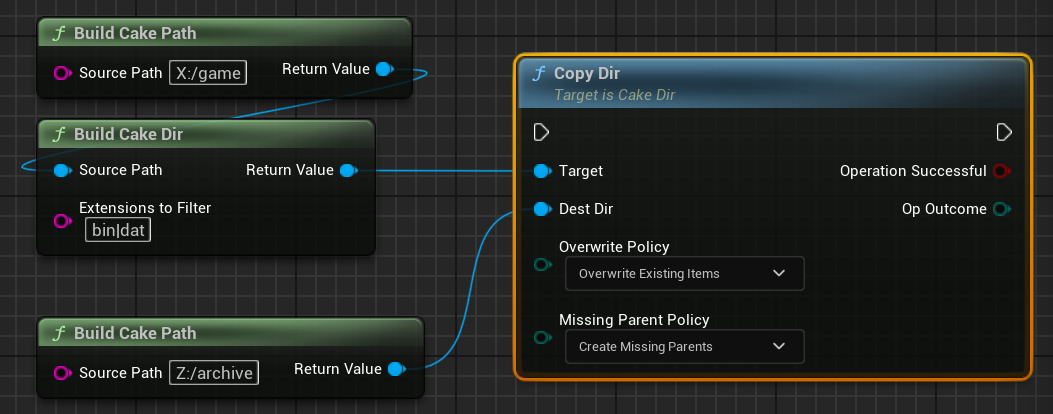
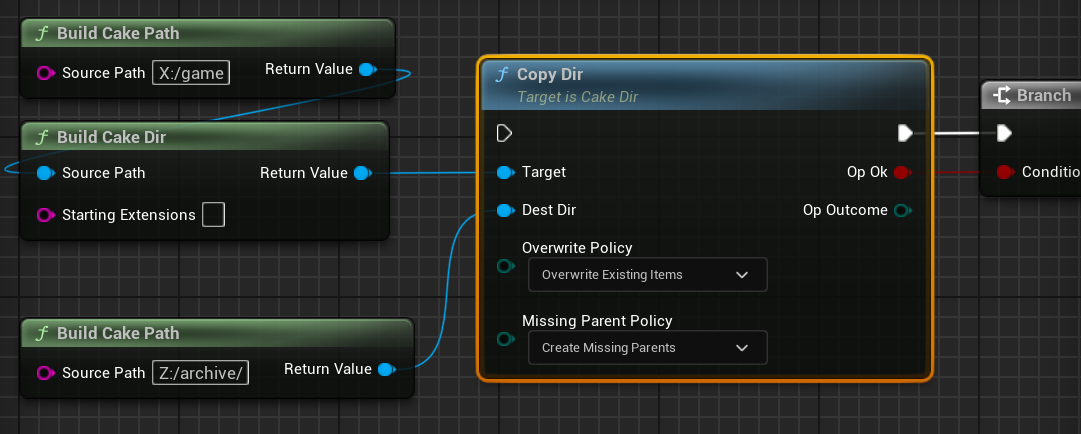
Update Directory.

diff --git a/docs/core-api/directories.md b/docs/core-api/directories.md
@@ -333,12 +333,12 @@ To copy the directory a CakeDir represents to another location on the filesystem
     }
     ```
 
-	--8<-- "ad-settings-createitem.md"
+	--8<-- "ad-settings-copyitem.md"
 
 === "Blueprint"
 	{{ bp_img_dir('Copy Dir') }}
 
-We can give the copied directory a new name easily via `CopyDirAliased`. In addition to a destination path, we also need to provide a new name that the copied directory should have: 
+We can give the copied directory a new name easily via `CopyDirWithNewName`. In addition to a destination path, we also need to provide a new name that the copied directory should have: 
 
 === "C++"
 
@@ -347,15 +347,15 @@ We can give the copied directory a new name easily via `CopyDirAliased`. In addi
 
 	FCakePath PathDestDir{ TEXT("Z:/archive/") };
 
-	if (!DirectoryGame.CopyDirAliased(PathDestDir, TEXTVIEW("game_archive")))
+	if (!DirectoryGame.CopyDirWithNewName(PathDestDir, TEXTVIEW("game_archive")))
 	{
 		UE_LOG(LogTemp, Error, TEXT("Failed copying game directory to archives!"))
 	}
     ```
-	--8<-- "ad-settings-createitem.md"
+	--8<-- "ad-settings-copyitem.md"
 
 === "Blueprint"
-	{{ bp_img_dir('Copy Dir Aliased') }}
+	{{ bp_img_dir('Copy Dir With New Name') }}
 
 Assuming the copy succeeds, the copied directory's path would be `Z:/archive/game_archive`.
 
@@ -376,12 +376,12 @@ To move the directory a CakeDir represents to another location on the filesystem
     }
     ```
 
-	--8<-- "ad-settings-createitem.md"
+	--8<-- "ad-settings-copyitem.md"
 
 === "Blueprint"
 	{{ bp_img_dir('Move Dir') }}
 
-We can give the moved directory a new name easily via `MoveDirAliased`. In addition to a destination path, we also need to provide a new name that the moved directory should have: 
+We can give the moved directory a new name easily via `MoveDirWithNewName`. In addition to a destination path, we also need to provide a new name that the moved directory should have: 
 
 === "C++"
 
@@ -390,15 +390,15 @@ We can give the moved directory a new name easily via `MoveDirAliased`. In addit
 
 	FCakePath PathDestDir{ TEXT("Z:/archive/") };
 
-	if (!DirectoryGame.MoveDirAliased(PathDestDir, TEXTVIEW("game_archive")))
+	if (!DirectoryGame.MoveDirWithNewName(PathDestDir, TEXTVIEW("game_archive")))
 	{
 		UE_LOG(LogTemp, Error, TEXT("Failed moving game directory to archives!"))
 	}
     ```
-	--8<-- "ad-settings-createitem.md"
+	--8<-- "ad-settings-copyitem.md"
 
 === "Blueprint"
-	{{ bp_img_dir('Move Dir Aliased') }}
+	{{ bp_img_dir('Move Dir With New Name') }}
 
 Assuming the move succeeds, the moved directory's path would be `Z:/archive/game_archive`.
 
@@ -423,7 +423,7 @@ We can control whether or not the name change is allowed to overwrite existing d
 
 ### Retrieving Directory OS Stat Information
 === "C++"
-    We can get the `FFileStatData` for an **FCakeDir** via `QueryStatData`:
+    We can get the `FFileStatData` for an FCakeDir via `QueryStatData`:
 
     ```c++ hl_lines="3"
 	FCakeDir DirectoryGame{ FCakePath{TEXTVIEW("X:/game")} };
@@ -910,19 +910,19 @@ Sometimes we might want to clone a CakeDir object and just change its parent pat
 The cloned directory will hold the path: `Y:/archive/build/win64`.
 
 ### Path Utility Functions
-#### BuildPathUnder
-This convenience function is designed to provide an ergonomic interface for generating paths relative to (under) a specific CakeDir object's path. All we need to do is submit a [CakePath](paths.md) object that represents the desired child path, and `BuildPathUnder` will return a new CakePath object with that child path parented under the target CakeDir object's path:
+#### BuildChildPath
+This convenience function is designed to provide an ergonomic interface for generating child paths relative to a specific CakeDir object's path. All we need to do is submit a [CakePath](paths.md) object that represents the child path's relative location within the directory, and `BuildChildPath` will return a new CakePath object with that child path parented under the target CakeDir object's path:
 
 === "C++"
     ```c++ hl_lines="4"
 	FCakeDir ProjectDir{ FCakePath{TEXTVIEW("X:/cake-arena")} };
 	FCakePath AssetsFolder{ TEXTVIEW("data/assets") };
 
-	FCakePath AssetsFullPath{ ProjectDir.BuildPathUnder(AssetsFolder) };
+	FCakePath AssetsFullPath{ ProjectDir.BuildChildPath(AssetsFolder) };
 	// Path: "X:/cake-arena/data/assets"
     ```
 
 === "Blueprint"
-	{{ bp_img_dir('Build Path Under') }}
+	{{ bp_img_dir('Build Child Path') }}
 
 In the example above, the returned CakePath object's path will be `X:/cake-arena/data/assets`.

diff --git a/docs/core-api/special-types/settings.md b/docs/core-api/special-types/settings.md
@@ -3,14 +3,13 @@
 
 CakeIO uses lightweight structs called Settings to group associated function parameters that are used across multiple functions. These structs help enforce regular argument ordering, reduce the length of function signatures, and provide a single location in source code where defaults can be set. Furthermore, because CakeIO takes advantage of C++20, we can use designated initializer syntax in order to allow for a much more ergonomic handling of optional parameters. 
 
-
-## FCakeSettingsCreateItem
-This parameter pack is utilized by various Create / Write IO functions across CakeIO. It contains two Cake Policies: [OverwriteItems](policies.md#overwriteitems) and [MissingParents](policies.md#missingparents). 
+## FCakeSettingsCopyItem
+This settings struct is used in copy or move IO operations involving files or directories. Remember, a move operation is just a copy operation followed by a delete operation, which is why it also uses these settings. It contains two Cake Policies: [OverwriteItems](policies.md#overwriteitems) and [MissingParents](policies.md#missingparents). 
 
 ```c++
-struct FCakeCreateItemSettings
+struct FCakeSettingsCopyItem
 {
-	/** Determines if the new item can overwrite a prexisting item. */
+	/** Determines if the copied item can overwrite a prexisting item. */
 	ECakePolicyOverwriteItems OverwritePolicy{ CakePolicies::OverwriteItemsDefault };
 
 	/** Determines if any parent directories that don't exist in the destination path can be created. */
@@ -18,18 +17,25 @@ struct FCakeCreateItemSettings
 };
 ```
 
-An example of explicitly setting policy values for an **FCakeCreateItemPolicies**:
-```c++
-const bool bCreateOK = FileText.CreateTextFile(SourceDataText,
-    { 
-        .OverwritePolicy     = ECakePolicyOverwriteItems::DoNotOverwriteExistingItems,
-        .MissingParentPolicy = ECakePolicyMissingParents::CreateMissing
-    }
-);
+An example of explicitly setting the CopyItem values using designated initializer syntax:
+```c++ hl_lines="12 13"
+FCakeDir DirectoryGame{ FCakePath{TEXTVIEW("X:/game")} };
+FCakeDir DirectoryArchive{ FCakePath{TEXTVIEW("Z:/archive")} };
 
-if (!bCreateOK)
+FCakeFile ReadmeFile{ 
+	DirectoryGame.BuildChildPath(
+		FCakePath{ TEXTVIEW("info/readme.md") })
+};
+
+if (!ReadmeFile.CopyFile(
+	*DirectoryArchive,
+	{
+		.OverwritePolicy     = ECakePolicyOverwriteItems::DoNotOverwriteExistingItems,
+		.MissingParentPolicy = ECakePolicyMissingParents::CreateMissing
+	})
+)
 {
-    UE_LOG(LogTemp, Error, TEXT("Failed creating example text file."));
+	UE_LOG(LogTemp, Error, TEXT("Failed copying readme file!"))
 }
 ```
 

diff --git a/docs/core-api/files.md b/docs/core-api/files.md
@@ -271,7 +271,7 @@ To create a text or binary file, we use `CreateTextFile` or `CreateBinaryFile` r
 	}
 	```
 
-	--8<-- "ad-settings-createitem.md"
+	--8<-- "ad-settings-copyitem.md"
 
 === "Blueprint"
 	{{ bp_img_file('Create Text File') }}
@@ -448,7 +448,7 @@ We can copy a CakeFile's referenced file to another location via `CopyFile`. Thi
 		UE_LOG(LogTemp, Warning, TEXT("Failed copying spells database to archive dir."))
 	}
 	```
-	--8<-- "ad-settings-createitem.md"
+	--8<-- "ad-settings-copyitem.md"
 
 === "Blueprint"
 	{{ bp_img_file('Copy File') }}
@@ -465,7 +465,7 @@ If we want the copied file to have a file name that differs from the source file
 	}
 	```
 
-	--8<-- "ad-settings-createitem.md"
+	--8<-- "ad-settings-copyitem.md"
 
 === "Blueprint"
 	{{ bp_img_file('Copy File Aliased') }}
@@ -486,7 +486,7 @@ We can move a file to another location via `MoveFile`. This takes an CakePath ar
 		UE_LOG(LogTemp, Warning, TEXT("Failed moving spells database to archive dir."))
 	}
 	```
-	--8<-- "ad-settings-createitem.md"
+	--8<-- "ad-settings-copyitem.md"
 
 === "Blueprint"
 	{{ bp_img_file('Move File') }}
@@ -504,7 +504,7 @@ Just like copy interface, we can also change the name of the moved file via `Mov
 	}
 	```
 
-	--8<-- "ad-settings-createitem.md"
+	--8<-- "ad-settings-copyitem.md"
 
 === "Blueprint"
 	{{ bp_img_file('Move File Aliased') }}

diff --git a/docs/.snippets/ad-settings-copyitem.md b/docs/.snippets/ad-settings-copyitem.md
@@ -1,0 +1,2 @@
+!!! note
+    This function takes an optional `FCakeSettingsCopyItem` settings struct. More details can be found [here](../core-api/special-types/settings.md#fcakesettingscopyitem).
